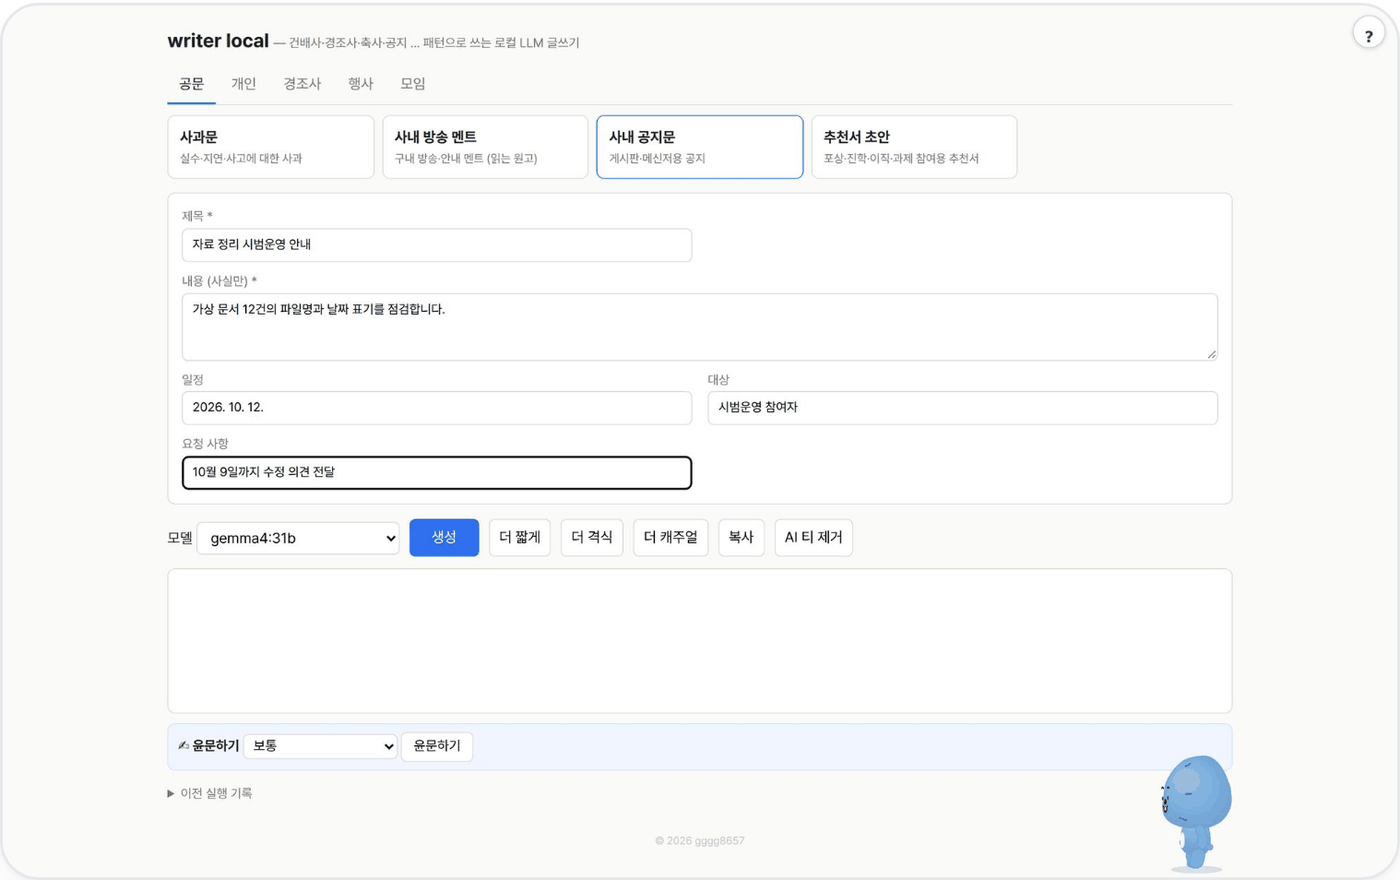
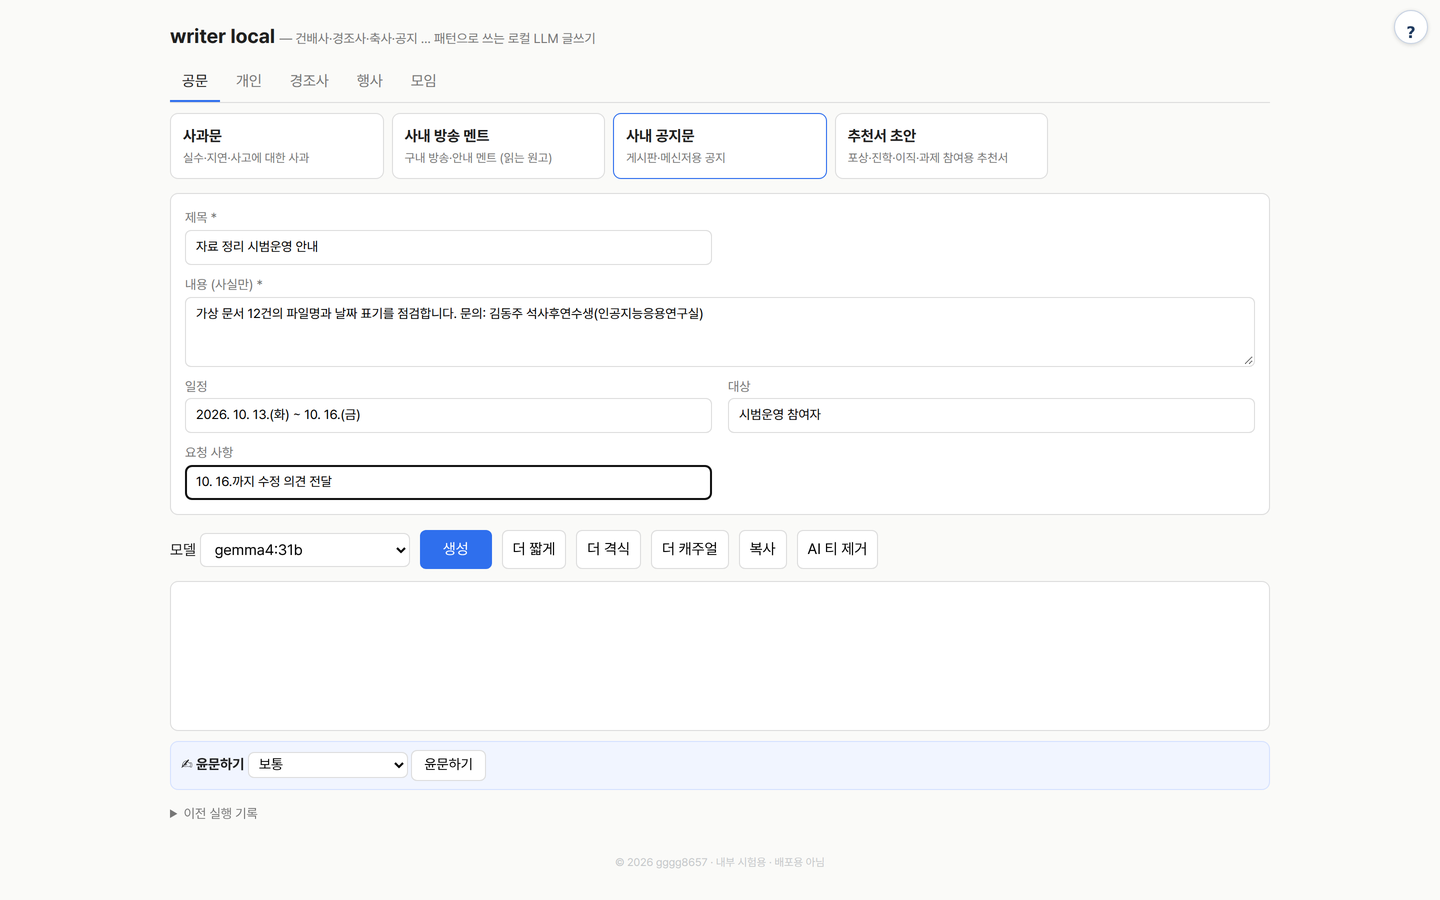
README 사용 화면·예시를 새 실행으로 교체
문의처 김동주가 들어간 사내 공지문을 다시 생성해 캡처.

diff --git a/README.md b/README.md
@@ -24,26 +24,37 @@
 
 ## 예시
 
-가상 자료 정리 사례로 **공문 → 사내 공지문** 패턴을 `gemma4:31b`로 실제 실행했습니다. 이 패턴은 사실과 요청을 앞에 두고 게시판용과 짧은 메신저용 2안을 만듭니다.
+가상 자료 정리 사례로 **공문 → 사내 공지문** 패턴을 `gemma4:31b`로 실제 실행했습니다(약 4초). 이 패턴은 사실과 요청을 앞에 두고 게시판용과 짧은 메신저용 2안을 만듭니다.
 
 입력:
 
 ```text
 제목: 자료 정리 시범운영 안내
-내용: 가상 문서 12건의 파일명과 날짜 표기를 점검합니다.
-일정: 2026. 10. 12.
+내용: 가상 문서 12건의 파일명과 날짜 표기를 점검합니다. 문의: 김동주 석사후연수생(인공지능응용연구실)
+일정: 2026. 10. 13.(화) ~ 10. 16.(금)
 대상: 시범운영 참여자
-요청: 10월 9일까지 수정 의견 전달
+요청: 10. 16.까지 수정 의견 전달
+```
+
+출력 (1안 · 게시판용, 위 그림 ①):
+
+```text
+자료 정리 시범운영 안내
+시범운영 참여자를 대상으로 가상 문서 12건의 파일명과 날짜 표기를 점검합니다.
+- 기간: 2026. 10. 13.(화) ~ 10. 16.(금)
+- 내용: 가상 문서 12건의 파일명 및 날짜 표기 점검
+- 문의: 김동주 석사후연수생(인공지능응용연구실)
+2026. 10. 16.(금)까지 수정 의견을 전달해 주시기 바랍니다.
 ```
 
 출력 (2안 · 메신저용):
 
 ```text
 자료 정리 시범운영 안내
-시범운영 참여자분들은 2026. 10. 12. 진행되는 가상 문서 12건의 파일명 및 날짜 표기 점검에 참여해 주세요. 10월 9일까지 수정 의견 전달해 주시기 바랍니다.
+시범운영 참여자분들은 2026. 10. 13.(화)부터 10. 16.(금)까지 가상 문서 12건의 파일명과 날짜 표기를 점검해 주세요. 문의는 인공지능응용연구실 김동주 석사후연수생에게 하시면 됩니다. 10. 16.(금)까지 수정 의견을 전달해 주시기 바랍니다.
 ```
 
-1안은 입력한 "10월 9일"을 "2026. 10. 09.(금)"으로 풀어 썼습니다(위 그림 ①).
+두 안 모두 입력의 "10. 16."에 요일 "(금)"을 붙여 썼습니다.
 
 <details><summary>입력 화면</summary>
 
